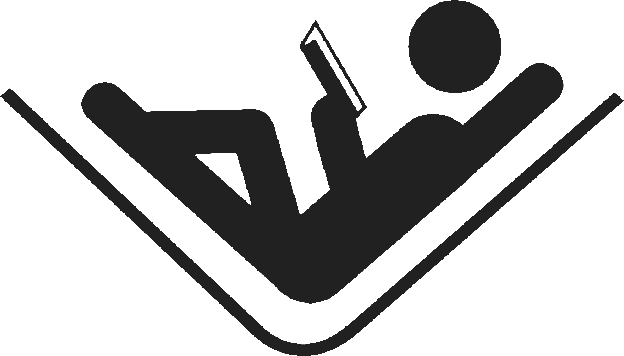
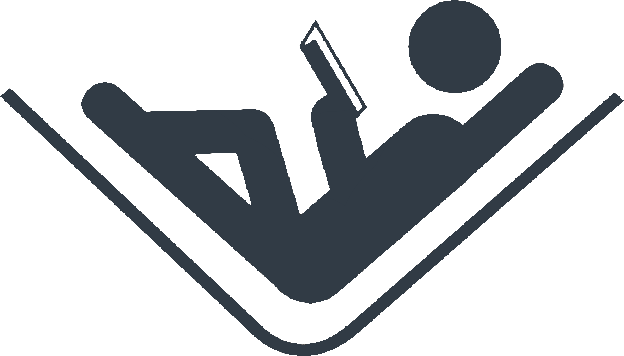
aug21 night

Changed region(s): [[0.1218, 0.0, 0.9135, 0.8652], [0.0, 0.2472, 1.0, 1.0]]

diff --git a/index.html b/index.html
@@ -50,7 +50,7 @@
 
             <!-- Collect the nav links, forms, and other content for toggling -->
          <!--    <div class="collapse navbar-collapse" id="bs-example-navbar-collapse-1">
-                <ul class="nav navbar-nav navbar-right">
+                <ul class="nav  navbar-nav navbar-right">
                     <li>
                         <a class="page-scroll" href="#about">Blog</a>
                     </li>
@@ -224,14 +224,14 @@
             <div class="row no-gutter popup-gallery">
                 <div class="col-lg-4 col-sm-6">
                     <a href="img/portfolio/fullsize/1.jpg" class="portfolio-box">
-                        <img src="img/portfolio/thumbnails/1.jpg" class="img-responsive" alt="">
+                        <img src="img/portfolio/thumbnails/productimages.jpg" class="img-responsive" alt="">
                         <div class="portfolio-box-caption">
                             <div class="portfolio-box-caption-content">
                                 <!-- <div class="project-category text-faded">
                                     Category
                                 </div> -->
                                 <div class="project-name">
-                                    Project Nameee
+                                    Product Images
                                 </div>
                             </div>
                         </div>
@@ -239,14 +239,14 @@
                 </div>
                 <div class="col-lg-4 col-sm-6">
                     <a href="img/portfolio/fullsize/2.jpg" class="portfolio-box">
-                        <img src="img/portfolio/thumbnails/2.jpg" class="img-responsive" alt="">
+                        <img src="img/portfolio/thumbnails/sourcing.jpg" class="img-responsive" alt="">
                         <div class="portfolio-box-caption">
                             <div class="portfolio-box-caption-content">
                                 <!-- <div class="project-category text-faded">
                                     Category
                                 </div> -->
                                 <div class="project-name">
-                                    Project Name
+                                    Sourcing
                                 </div>
                             </div>
                         </div>
@@ -254,14 +254,14 @@
                 </div>
                 <div class="col-lg-4 col-sm-6">
                     <a href="img/portfolio/fullsize/3.jpg" class="portfolio-box">
-                        <img src="img/portfolio/thumbnails/3.jpg" class="img-responsive" alt="">
+                        <img src="img/portfolio/thumbnails/inspection.jpg" class="img-responsive" alt="">
                         <div class="portfolio-box-caption">
                             <div class="portfolio-box-caption-content">
                                 <!-- <div class="project-category text-faded">
                                     Category
                                 </div> -->
                                 <div class="project-name">
-                                    Project Name
+                                    Inspection
                                 </div>
                             </div>
                         </div>
@@ -269,14 +269,14 @@
                 </div>
                 <div class="col-lg-4 col-sm-6">
                     <a href="img/portfolio/fullsize/4.jpg" class="portfolio-box">
-                        <img src="img/portfolio/thumbnails/4.jpg" class="img-responsive" alt="">
+                        <img src="img/portfolio/thumbnails/ppc.jpg" class="img-responsive" alt="">
                         <div class="portfolio-box-caption">
                             <div class="portfolio-box-caption-content">
                                 <!-- <div class="project-category text-faded">
                                     Category
                                 </div> -->
                                 <div class="project-name">
-                                    Project Name
+                                    PPC & Keyword Research
                                 </div>
                             </div>
                         </div>
@@ -284,14 +284,14 @@
                 </div>
                 <div class="col-lg-4 col-sm-6">
                     <a href="img/portfolio/fullsize/5.jpg" class="portfolio-box">
-                        <img src="img/portfolio/thumbnails/5.jpg" class="img-responsive" alt="">
+                        <img src="img/portfolio/thumbnails/copywriting.jpg" class="img-responsive" alt="">
                         <div class="portfolio-box-caption">
                             <div class="portfolio-box-caption-content">
                                <!--  <div class="project-category text-faded">
                                     Category
                                 </div> -->
                                 <div class="project-name">
-                                    Project Name
+                                    Copywriting
                                 </div>
                             </div>
                         </div>
@@ -299,14 +299,14 @@
                 </div>
                 <div class="col-lg-4 col-sm-6">
                     <a href="img/portfolio/fullsize/6.jpg" class="portfolio-box">
-                        <img src="img/portfolio/thumbnails/6.jpg" class="img-responsive" alt="">
+                        <img src="img/portfolio/thumbnails/ungating.jpg" class="img-responsive" alt="">
                         <div class="portfolio-box-caption">
                             <div class="portfolio-box-caption-content">
                                <!--  <div class="project-category text-faded">
                                     Category
                                 </div> -->
                                 <div class="project-name">
-                                    Project Name
+                                    Ungating
                                 </div>
                             </div>
                         </div>
@@ -314,14 +314,14 @@
                 </div>
                 <div class="col-lg-4 col-sm-6">
                     <a href="img/portfolio/fullsize/6.jpg" class="portfolio-box">
-                        <img src="img/portfolio/thumbnails/6.jpg" class="img-responsive" alt="">
+                        <img src="img/portfolio/thumbnails/accounting.jpg" class="img-responsive" alt="">
                         <div class="portfolio-box-caption">
                             <div class="portfolio-box-caption-content">
                                 <!-- <div class="project-category text-faded">
                                     Category
                                 </div> -->
                                 <div class="project-name">
-                                    Project Name
+                                    Accounting & Taxes
                                 </div>
                             </div>
                         </div>
@@ -329,14 +329,14 @@
                 </div>
                 <div class="col-lg-4 col-sm-6">
                     <a href="img/portfolio/fullsize/6.jpg" class="portfolio-box">
-                        <img src="img/portfolio/thumbnails/6.jpg" class="img-responsive" alt="">
+                        <img src="img/portfolio/thumbnails/freight.jpg" class="img-responsive" alt="">
                         <div class="portfolio-box-caption">
                             <div class="portfolio-box-caption-content">
                                <!--  <div class="project-category text-faded">
                                     Category
                                 </div> -->
                                 <div class="project-name">
-                                    Project Name
+                                    Freight & Logistics
                                 </div>
                             </div>
                         </div>
@@ -344,14 +344,59 @@
                 </div>
                 <div class="col-lg-4 col-sm-6">
                     <a href="img/portfolio/fullsize/6.jpg" class="portfolio-box">
-                        <img src="img/portfolio/thumbnails/6.jpg" class="img-responsive" alt="">
+                        <img src="img/portfolio/thumbnails/listing.jpg" class="img-responsive" alt="">
                         <div class="portfolio-box-caption">
                             <div class="portfolio-box-caption-content">
                                 <!-- <div class="project-category text-faded">
                                     Category
                                 </div> -->
                                 <div class="project-name">
-                                    Project Name
+                                    Listing Optimization
+                                </div>
+                            </div>
+                        </div>
+                    </a>
+                </div>
+                <div class="col-lg-4 col-sm-6">
+                    <a href="img/portfolio/fullsize/6.jpg" class="portfolio-box">
+                        <img src="img/portfolio/thumbnails/general.jpg" class="img-responsive" alt="">
+                        <div class="portfolio-box-caption">
+                            <div class="portfolio-box-caption-content">
+                                <!-- <div class="project-category text-faded">
+                                    Category
+                                </div> -->
+                                <div class="project-name">
+                                    General Consulting
+                                </div>
+                            </div>
+                        </div>
+                    </a>
+                </div>
+                <div class="col-lg-4 col-sm-6">
+                    <a href="img/portfolio/fullsize/6.jpg" class="portfolio-box">
+                        <img src="img/portfolio/thumbnails/other.jpg" class="img-responsive" alt="">
+                        <div class="portfolio-box-caption">
+                            <div class="portfolio-box-caption-content">
+                                <!-- <div class="project-category text-faded">
+                                    Category
+                                </div> -->
+                                <div class="project-name">
+                                    Other
+                                </div>
+                            </div>
+                        </div>
+                    </a>
+                </div>
+                <div class="col-lg-4 col-sm-6">
+                    <a href="img/portfolio/fullsize/6.jpg" class="portfolio-box">
+                        <img src="img/portfolio/thumbnails/easy.jpg" class="img-responsive" alt="">
+                        <div class="portfolio-box-caption">
+                            <div class="portfolio-box-caption-content">
+                                <!-- <div class="project-category text-faded">
+                                    Category
+                                </div> -->
+                                <div class="project-name">
+                                    easyAMZ
                                 </div>
                             </div>
                         </div>

diff --git a/css/creative.css b/css/creative.css
@@ -51,7 +51,7 @@ p {
   padding-bottom: 30px;
 }
 .bg-dark {
-  background-color: #222222;
+  background-color: #323C47;
   color: white;
 }
 .text-faded {
@@ -87,7 +87,7 @@ aside {
 .navbar-default .navbar-header .navbar-toggle {
   font-weight: 700;
   font-size: 12px;
-  color: #222222;
+  color: #323C47;
   text-transform: uppercase;
 }
 .navbar-default .nav > li > a,
@@ -95,7 +95,7 @@ aside {
   text-transform: uppercase;
   font-weight: 700;
   font-size: 13px;
-  color: #222222;
+  color: #323C47;
 }
 .navbar-default .nav > li > a:hover,
 .navbar-default .nav > li > a:focus:hover {
@@ -131,7 +131,7 @@ aside {
     color: white;
   }
   .navbar-default.affix {
-    background-color: white;
+    background-color: #323C47;
     border-color: rgba(34, 34, 34, 0.05);
   }
   .navbar-default.affix .navbar-header .navbar-brand {
@@ -144,7 +144,7 @@ aside {
   }
   .navbar-default.affix .nav > li > a,
   .navbar-default.affix .nav > li > a:focus {
-    color: #222222;
+    color: #323C47;
   }
   .navbar-default.affix .nav > li > a:hover,
   .navbar-default.affix .nav > li > a:focus:hover {
@@ -239,7 +239,7 @@ header .header-content .header-content-inner p {
   color: white;
   opacity: 0;
   display: block;
-  background: #222222;
+  background: #323C47;
   position: absolute;
   bottom: 0;
   text-align: center;
@@ -295,7 +295,7 @@ header .header-content .header-content-inner p {
   padding-left: 0;
 }
 .btn-default {
-  color: #222222;
+  color: #323C47;
   background-color: white;
   border-color: white;
   -webkit-transition: all 0.35s;
@@ -308,7 +308,7 @@ header .header-content .header-content-inner p {
 .btn-default:active,
 .btn-default.active,
 .open > .dropdown-toggle.btn-default {
-  color: #222222;
+  color: #323C47;
   background-color: #f2f2f2;
   border-color: #ededed;
 }
@@ -340,7 +340,7 @@ fieldset[disabled] .btn-default.active {
 }
 .btn-default .badge {
   color: white;
-  background-color: #222222;
+  background-color: #323C47;
 }
 .btn-primary {
   color: white;
@@ -403,12 +403,12 @@ fieldset[disabled] .btn-primary.active {
 ::-moz-selection {
   color: white;
   text-shadow: none;
-  background: #222222;
+  background: #323C47;
 }
 ::selection {
   color: white;
   text-shadow: none;
-  background: #222222;
+  background: #323C47;
 }
 img::selection {
   color: white;
@@ -419,5 +419,5 @@ img::-moz-selection {
   background: transparent;
 }
 body {
-  webkit-tap-highlight-color: #222222;
+  webkit-tap-highlight-color: #323C47;
 }

diff --git a/css/easyamz.css b/css/easyamz.css
@@ -7,6 +7,10 @@
 	margin-bottom: 50px;
 }
 
+#mainNav {
+	padding-bottom: 15px;
+}
+
 
 header .header-content .header-content-inner h1 {
 	text-transform: none;
@@ -37,7 +41,7 @@ header .header-content .header-content-inner h1 {
 			padding: 8px 0;
 
 		}
-			#mailchimp input[type="submit"]:hover { background: #222222 }
+			#mailchimp input[type="submit"]:hover { background: #323C47 }
 
 .button {
   height: 54px;
@@ -63,7 +67,7 @@ input:focus {
 }
 
 .browsemarket {
-	background: #222222;
+	background: #323C47;
 }
 
 .browsetext {
